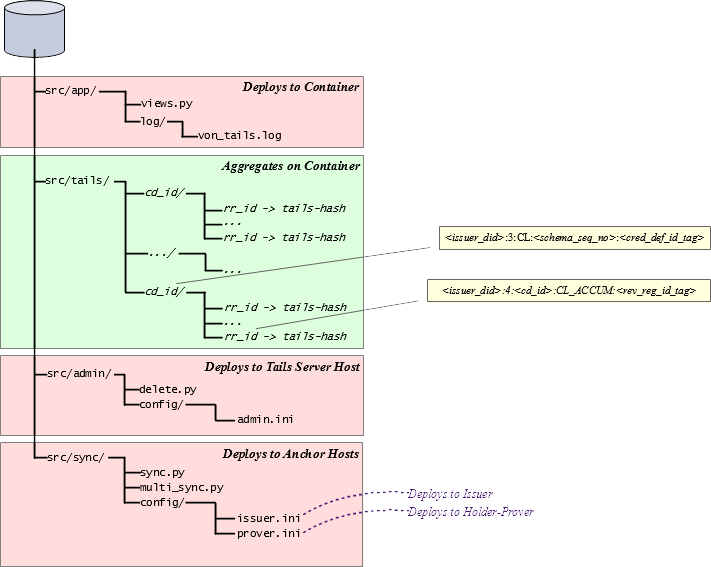
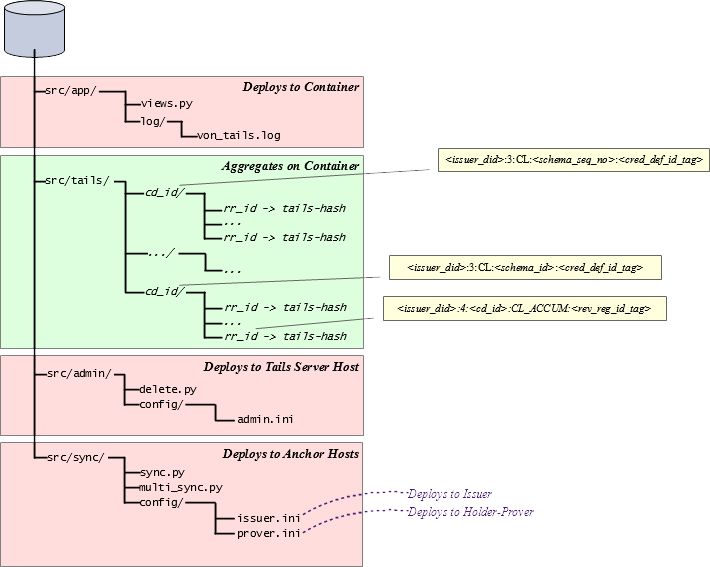
accommodate long-form cred def ids

diff --git a/src/app/views.py b/src/app/views.py
@@ -22,15 +22,13 @@ from os import makedirs, unlink
 from os.path import basename, dirname, exists, isdir, isfile, islink, join, realpath
 from shutil import rmtree
 from time import time
-from urllib.parse import unquote
 
 from sanic import response
-from sanic.request import File as SanicReqFile, Request
+from sanic.request import Request
 from sanic.response import HTTPResponse
-from sanic.exceptions import Forbidden, InvalidUsage, NotFound
 from von_anchor.error import AbsentRevReg
 from von_anchor.tails import Tails
-from von_anchor.util import cred_def_id2seq_no, ok_cred_def_id, ok_did, ok_rev_reg_id, rev_reg_id2cred_def_id
+from von_anchor.util import ok_cred_def_id, ok_did, ok_rev_reg_id, rev_reg_id2cred_def_id
 
 from app import app
 from app.cache import MEM_CACHE
@@ -199,7 +197,7 @@ async def list_tails(request: Request, ident: str) -> HTTPResponse:
 
 
 @app.delete('/tails/<ident:.+>/<epoch:[0-9]+>')
-async def delete_tails(request: Request, ident:str, epoch: int) -> HTTPResponse:
+async def delete_tails(request: Request, ident: str, epoch: int) -> HTTPResponse:
     """
     Delete tails files by corresponding rev reg ids: all, by rev reg id, by cred def id, or by issuer DID.
 

diff --git a/src/app/bootseq.py b/src/app/bootseq.py
@@ -46,7 +46,7 @@ def boot() -> None:
     p_mgr = NodePoolManager()
     if pool_data.name not in do_wait(p_mgr.list()):
         if pool_data.genesis_txn_path:
-            p_mgr.add_config(pool_data.name, pool_data.genesis_txn_path)
+            do_wait(p_mgr.add_config(pool_data.name, pool_data.genesis_txn_path))
         else:
             LOGGER.debug(
                 'Node pool %s has no ledger configuration but %s specifies no genesis txn path',
